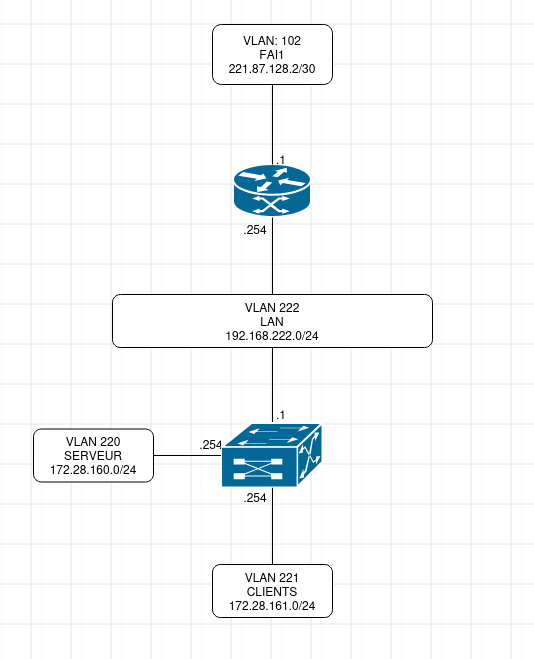
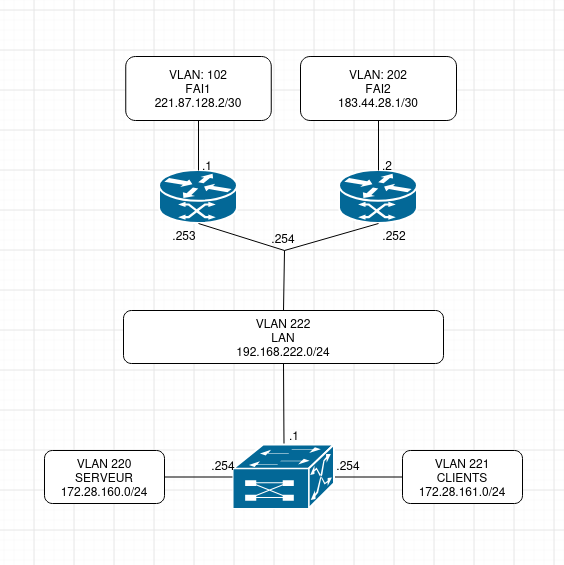
Deployed 16b2f63 with MkDocs version: 1.6.1

diff --git a/documentation/index.html b/documentation/index.html
@@ -114,6 +114,10 @@
               <ul class="nav flex-column">
               </ul>
             </li>
+            <li class="nav-item" data-bs-level="2"><a href="#mise-en-place-du-2eme-routeur" class="nav-link">Mise en place du 2eme Routeur</a>
+              <ul class="nav flex-column">
+              </ul>
+            </li>
               </ul>
             </li>
         </ul>
@@ -125,33 +129,37 @@
 <p>Réinitialisation du switch <code>erase config-startup</code></p>
 <p><br></p>
 <h2 id="renommage-du-switch">Renommage du switch</h2>
-<p><code>enable</code></p>
-<p><code>configure terminal</code></p>
-<p><code>hostname ‘nom du switch’</code></p>
+<pre><code> enable
+ configure terminal
+ hostname ‘nom du switch'
+</code></pre>
 <p><br></p>
 <h2 id="creer-les-differents-vlan-necessaires">Créer les différents Vlan nécessaires</h2>
 <p><code>vlan [numéro du port]</code> puis <code>name [nom_du_VLAN]</code></p>
 <p><br></p>
 <h2 id="attribuer-des-ports-aux-vlans">Attribuer des ports aux VLANS</h2>
-<p><code>interface [numéro du port]</code></p>
-<p><code>switchport mode access/trunk</code></p>
-<p><code>Switchport access vlan [numéro de vlan]</code></p>
+<pre><code>interface [numéro du port]
+switchport mode access/trunk
+Switchport access vlan [numéro de vlan]
+</code></pre>
 <p><br></p>
 <h2 id="creation-dun-utilisateur">Creation d'un utilisateur</h2>
 <p><code>username [admin] privilege 15 secret [password]</code></p>
 <p><br></p>
 <h2 id="activation-du-ssh">Activation du ssh</h2>
-<p>Et nous activons les interfaces avec la commande 
-<code>ip domain name cha.chartres.sportludique.local</code></p>
-<p><code>ip ssh version 2</code></p>
-<p><code>crypto key generate-keys modulus 1024</code></p>
-<p><code>line vty 0 4</code></p>
-<p><code>login local</code></p>
-<p><code>transport input ssh</code></p>
-<p><code>write memory</code></p>
+<p>Et nous activons les interfaces avec la commande </p>
+<pre><code>ip domain name cha.chartres.sportludique.local
+ip ssh version 2
+crypto key generate-keys modulus 1024
+line vty 0 4
+login local
+transport input ssh
+write memory
+</code></pre>
 <p><br>
 <br></p>
 <h1 id="configuration-routeur">Configuration Routeur</h1>
+<p><br></p>
 <h2 id="mise-en-place-du-nat">Mise en place du NAT</h2>
 <p>Interface du VLAN 120 <code>interface gig0/0.120</code> avec l'adresse ip <code>10.28.2.253 255.255.255.0</code> </p>
 <p>Interface du VLAN 222 <code>ip address 192.168.222.254 255.255.255.0</code> et <code>ip nat inside</code> avec <code>l'encapsulation dot1Q</code></p>
@@ -159,9 +167,24 @@
 <p><code>no shutdown</code></p>
 <p>Route par défaut : <code>ip route 0.0.0.0 0.0.0.0 221.87.128.2</code></p>
 <p>On mets une acess-list pour avoir internet sur tous les réseaux sauf Mana <code>access-list 1 permit 172.28.160.0 0.0.31.255</code></p>
+<p><br></p>
 <h2 id="mise-en-place-internet-sur-les-vlans">Mise en place internet sur les vlans</h2>
 <p>On mets la route par défaut pour le switch : <code>0.0.0.0 0.0.0.0 192.168.222.254</code></p>
-<p>On mets la route sur le routeur pour qu'il connaisse le VLAN 221: <code>172.28.161.0 255.255.255.0 192.168.222.1</code></p></div>
+<p>On mets la route sur le routeur pour qu'il connaisse le VLAN 221: <code>172.28.161.0 255.255.255.0 192.168.222.1</code></p>
+<h2 id="mise-en-place-du-2eme-routeur">Mise en place du 2eme Routeur</h2>
+<p>On met un deuxieme routeur pour assurer la disponibilité</p>
+<p>On copie la conf du premier routeur sur le deuxieme</p>
+<p>On config HSRP sur les 2 routeurs</p>
+<p>R1:</p>
+<pre><code> standby 1 ip 192.168.222.253
+ standby 1 priority 110
+ standby 1 preempt
+</code></pre>
+<p>R2:</p>
+<pre><code> standby 1 ip 192.168.222.252
+ standby 1 priority 100
+ standby 1 preempt
+</code></pre></div>
             </div>
         </div>
 

diff --git a/annexes/index.html b/annexes/index.html
@@ -81,11 +81,7 @@
             
             <li class="nav-item" data-bs-level="1"><a href="#annexes" class="nav-link">Annexes</a>
               <ul class="nav flex-column">
-            <li class="nav-item" data-bs-level="2"><a href="#schema-logique-actuelle" class="nav-link">Schéma Logique (Actuelle)</a>
-              <ul class="nav flex-column">
-              </ul>
-            </li>
-            <li class="nav-item" data-bs-level="2"><a href="#shema-logique-objectif" class="nav-link">Shéma Logique (objectif)</a>
+            <li class="nav-item" data-bs-level="2"><a href="#schema-logique" class="nav-link">Schéma Logique</a>
               <ul class="nav flex-column">
               </ul>
             </li>
@@ -114,12 +110,8 @@
 
 <h1 id="annexes">Annexes</h1>
 <p>Toutes les annexes réunit sur cette page</p>
-<h2 id="schema-logique-actuelle">Schéma Logique (Actuelle)</h2>
+<h2 id="schema-logique">Schéma Logique</h2>
 <p><img alt="Schéma Logique Actuelle" src="../img/schema_logique_actuelle.png" /></p>
-<p><br></p>
-<h2 id="shema-logique-objectif">Shéma Logique (objectif)</h2>
-<p><img alt="Schéma logique" src="../img/schema_logique.png" /></p>
-<p>Ceci est un objectif de schéma logique du réseau </p>
 <p><br></p>
 <h2 id="schema-mana">Schéma Mana</h2>
 <p><img alt="Schéma Mana" src="../img/schema_mana.png" /> 
@@ -211,9 +203,9 @@
 <td style="text-align: center;">Trunk</td>
 </tr>
 <tr>
-<td style="text-align: center;"></td>
+<td style="text-align: center;">R2-CHA</td>
 <td style="text-align: center;">Gig0/2</td>
-<td style="text-align: center;"></td>
+<td style="text-align: center;">Trunk</td>
 </tr>
 <tr>
 <td style="text-align: center;"></td>
@@ -303,7 +295,7 @@
 <tr>
 <td style="text-align: center;"></td>
 <td style="text-align: center;">Gig0/20</td>
-<td style="text-align: center;"></td>
+<td style="text-align: center;">Serveur</td>
 </tr>
 <tr>
 <td style="text-align: center;"></td>

diff --git a/index.html b/index.html
@@ -175,5 +175,5 @@
 
 <!--
 MkDocs version : 1.6.1
-Build Date UTC : 2026-09-22 07:17:19.258899+00:00
+Build Date UTC : 2026-09-22 14:44:43.640083+00:00
 -->
